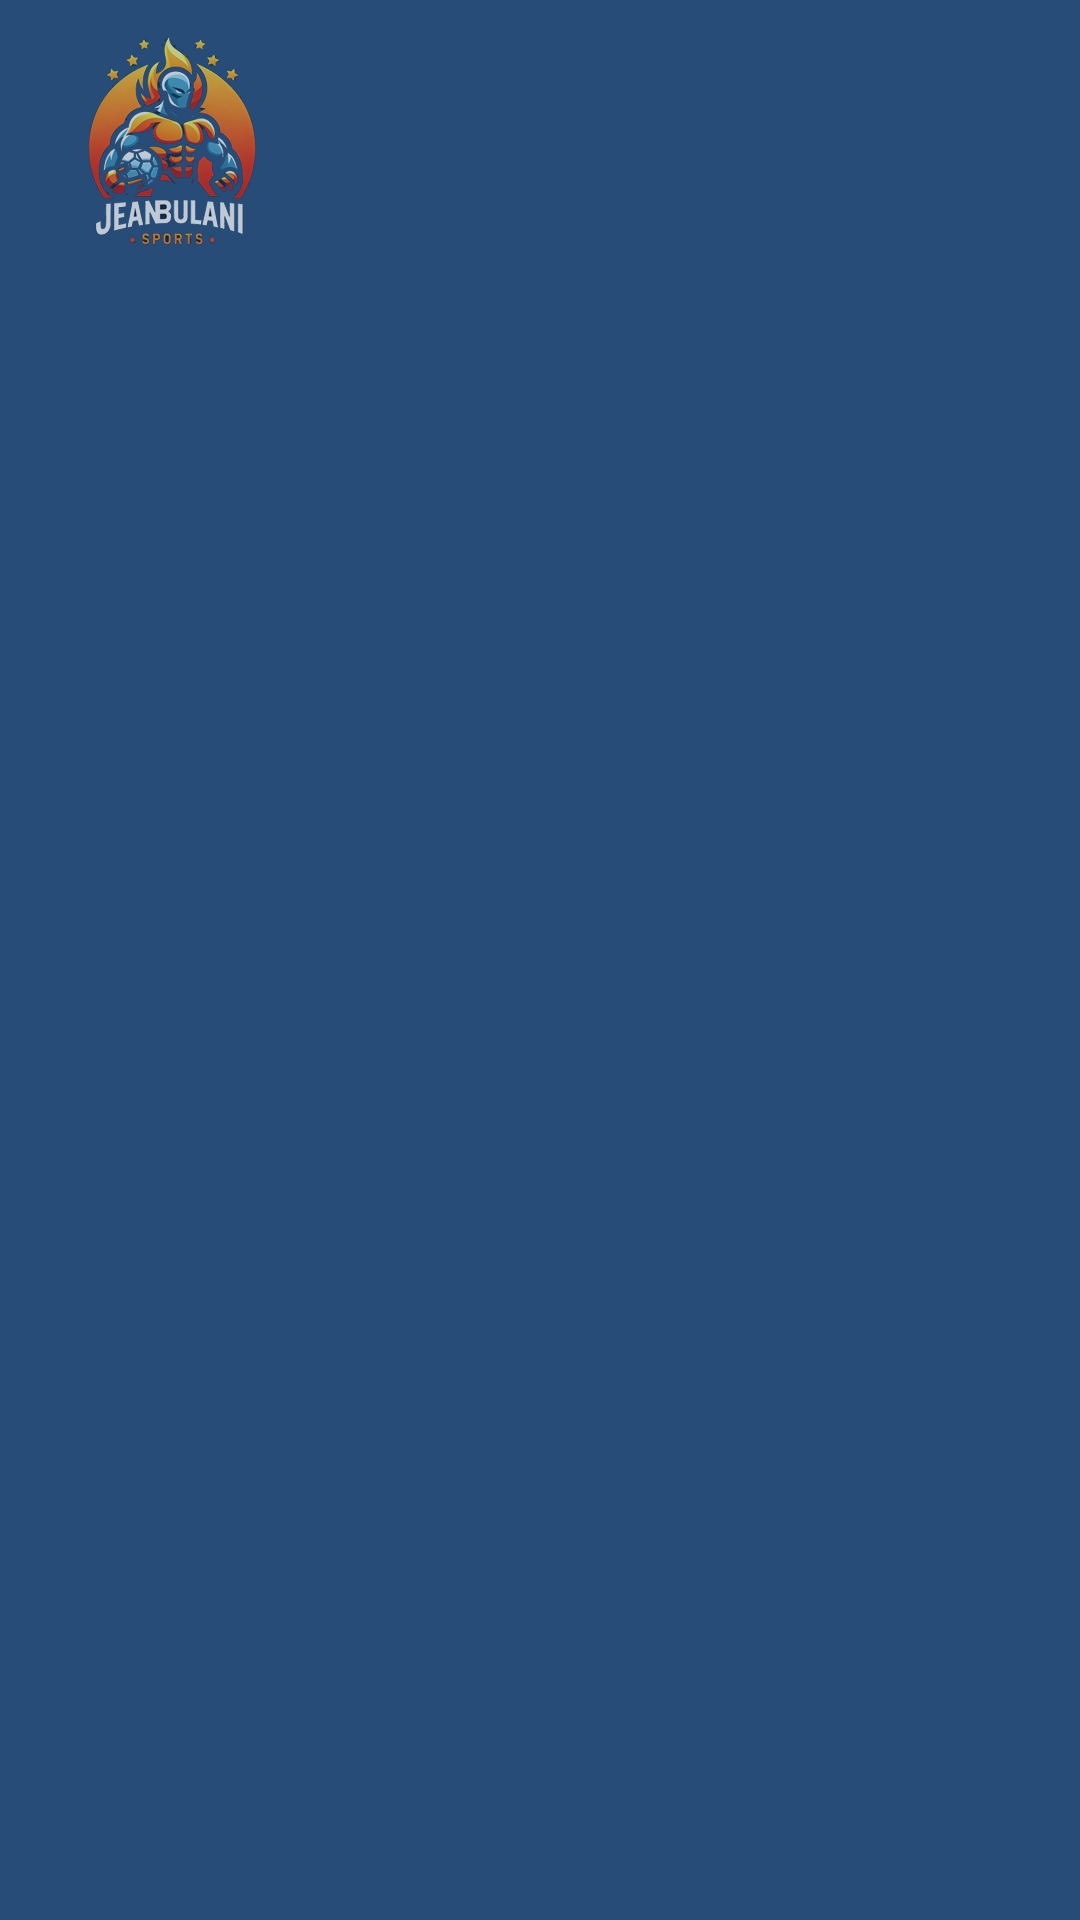
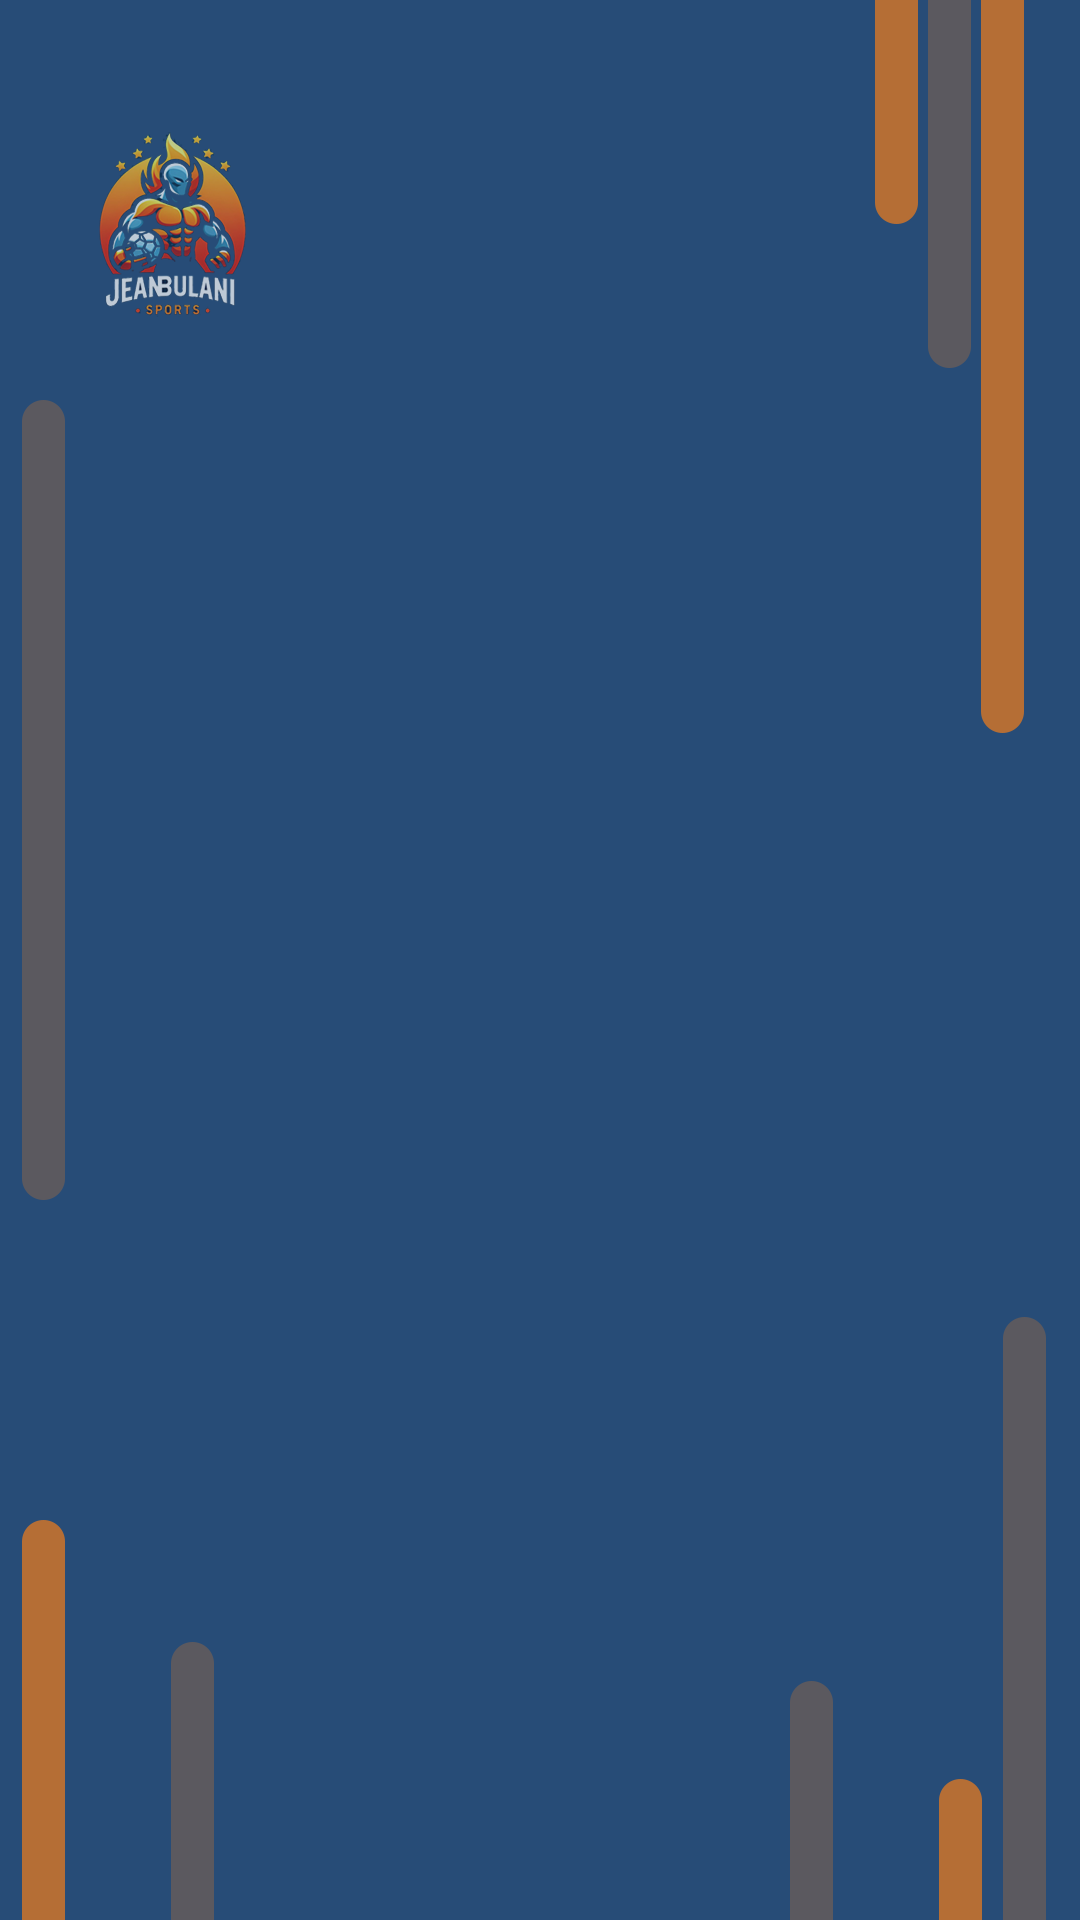
upd-cadastro-produto

diff --git a/Projeto-Ecommerce/src/screens/Home.js b/Projeto-Ecommerce/src/screens/Home.js
@@ -1,10 +1,11 @@
-import { Text, View, StyleSheet, Button, TextInput, Alert } from "react-native";
+import { Text, View, StyleSheet, Button, TextInput, Alert, ImageBackground } from "react-native";
 import {
   criarProduto,
   deletarProduto,
   editarProduto,
 } from "../services/produtosService";
 import { useState } from "react";
+import bgImage from '../../assets/bg-01.png';
 
 //Componente para testar as tabs estão funcionando
 export default Home = () => {
@@ -45,6 +46,7 @@ export default Home = () => {
   };
 
   return (
+    <ImageBackground source={bgImage} style={styles.bgImageStyle}>
     <View style={styles.container}>
       <Text style={styles.textoTit}>CADASTRAR PRODUTO</Text>
       <Text></Text>
@@ -97,6 +99,7 @@ export default Home = () => {
         }
       />
     </View>
+      </ImageBackground>
   );
 };
 
@@ -105,7 +108,7 @@ const styles = StyleSheet.create({
     flex: 1,
     alignItems: "center",
     justifyContent: "center",
-    backgroundColor: "#274C77",
+    // backgroundColor: "#274C77",
   },
   input: {
     borderWidth: 2,
@@ -137,7 +140,7 @@ const styles = StyleSheet.create({
 
   textoTit: {
     color: "#E7ECEF",
-    fontSize: 20,
+    fontSize: 15,
     fontWeight: "600",
     marginBottom: 20,
     marginTop: 20,
@@ -148,4 +151,10 @@ const styles = StyleSheet.create({
     marginTop: 20,
     textAlign: "center",
   },
+  bgImageStyle:{
+    alignContent: 'center',
+    flex: 1,
+    width: "100%",
+    justifyContent: 'center'
+  }
 });
